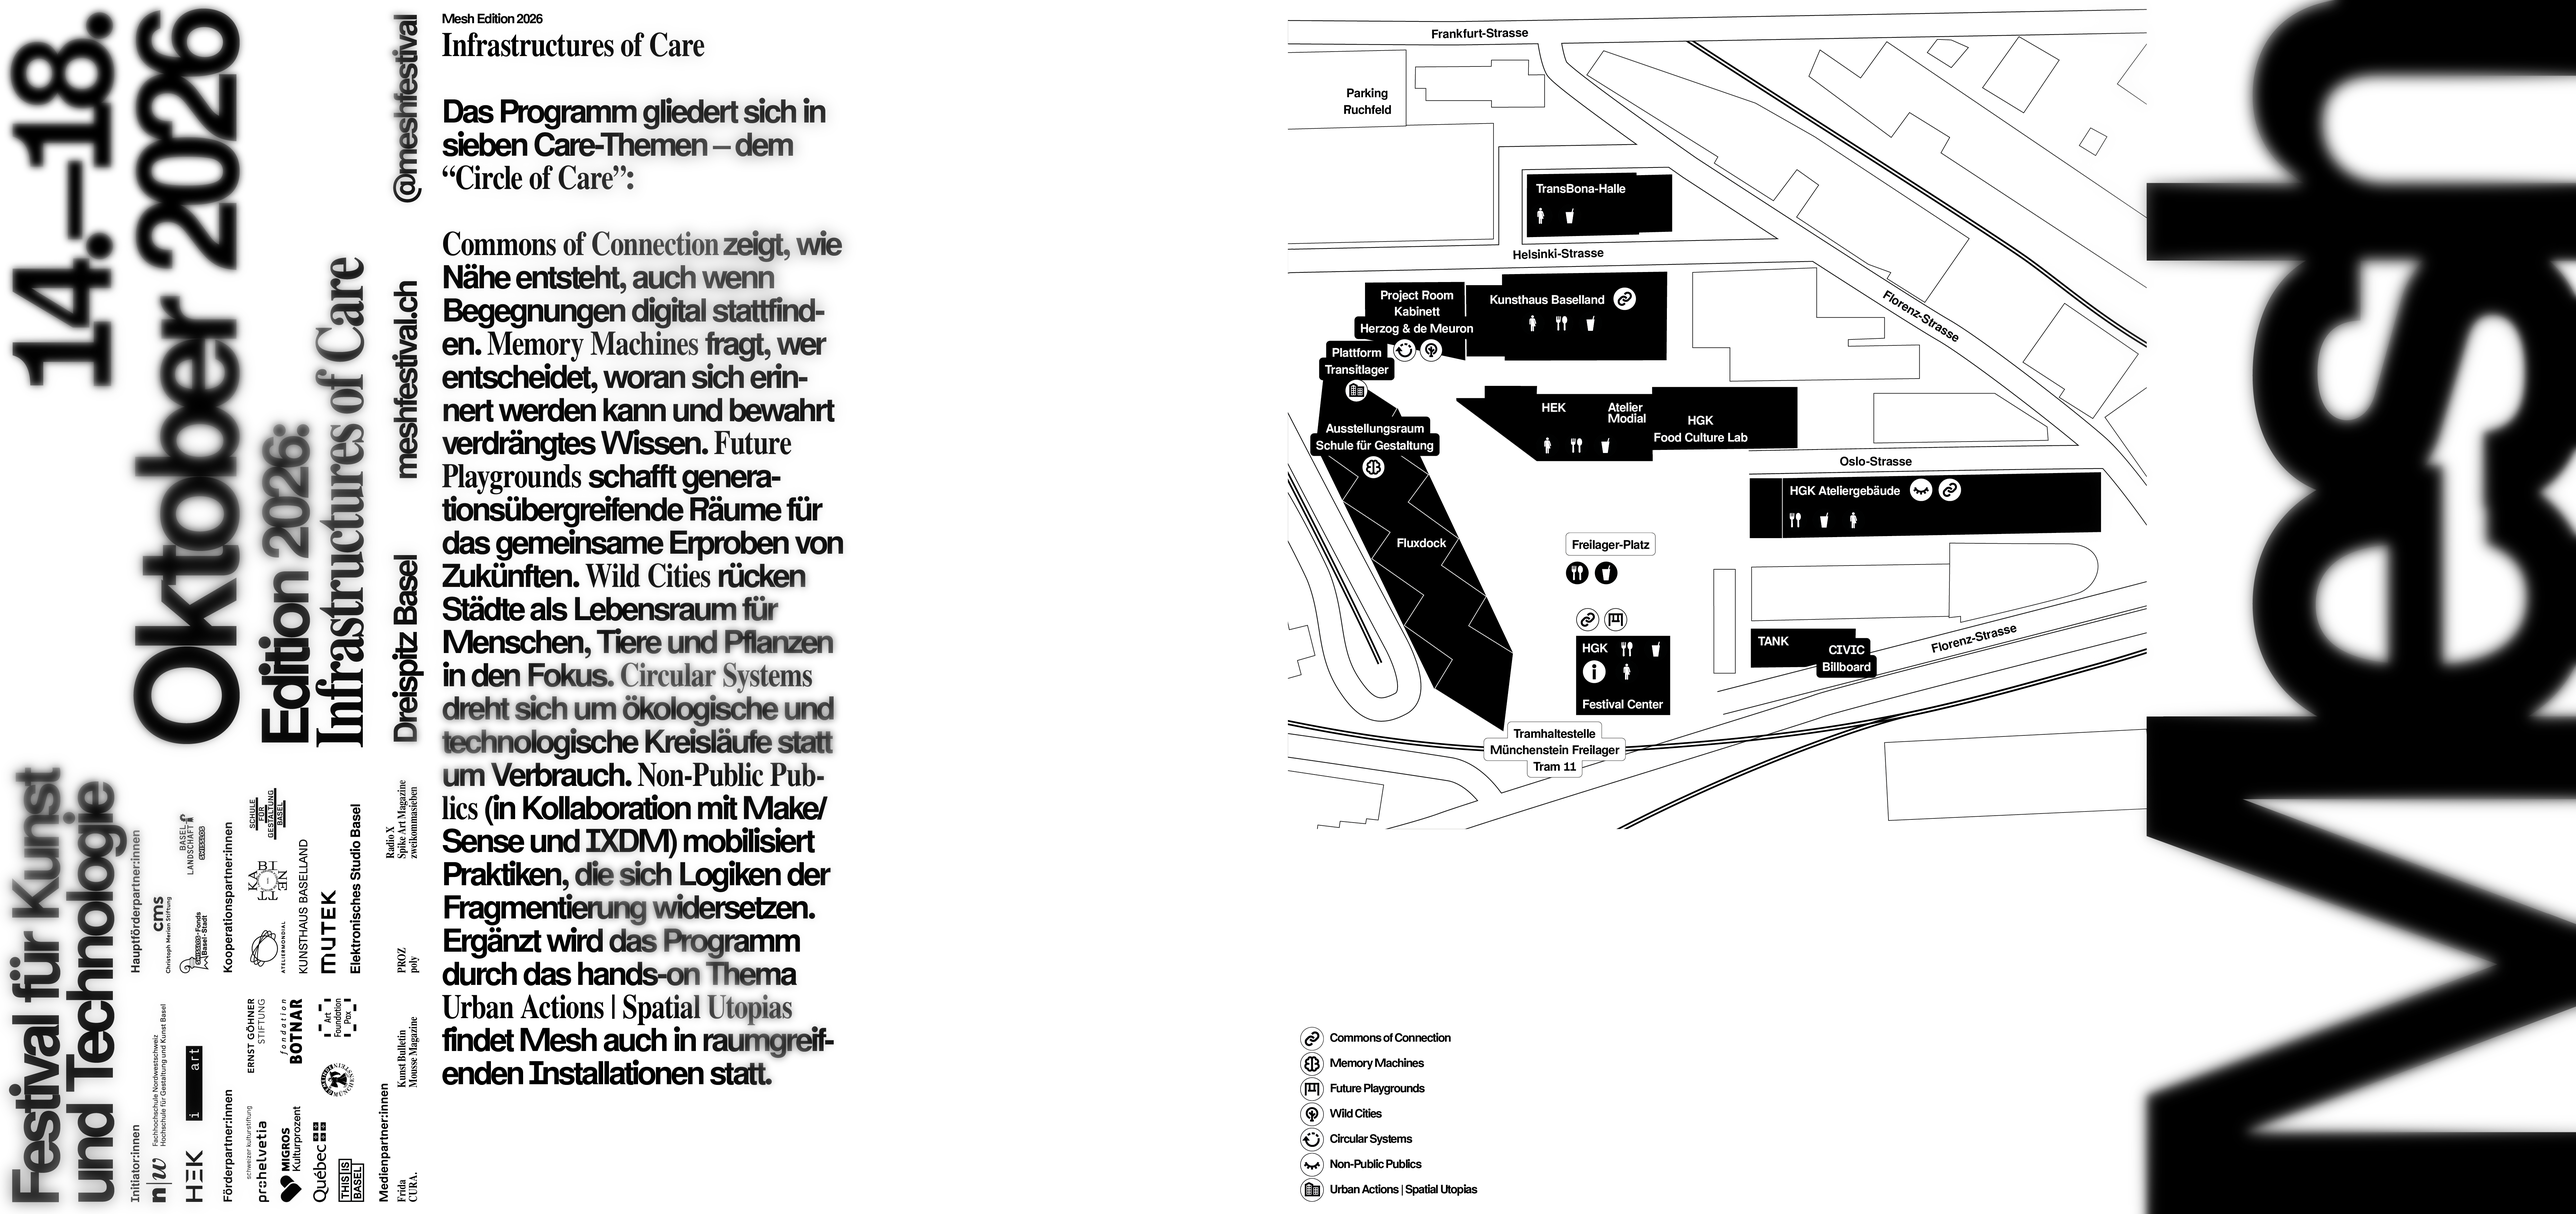
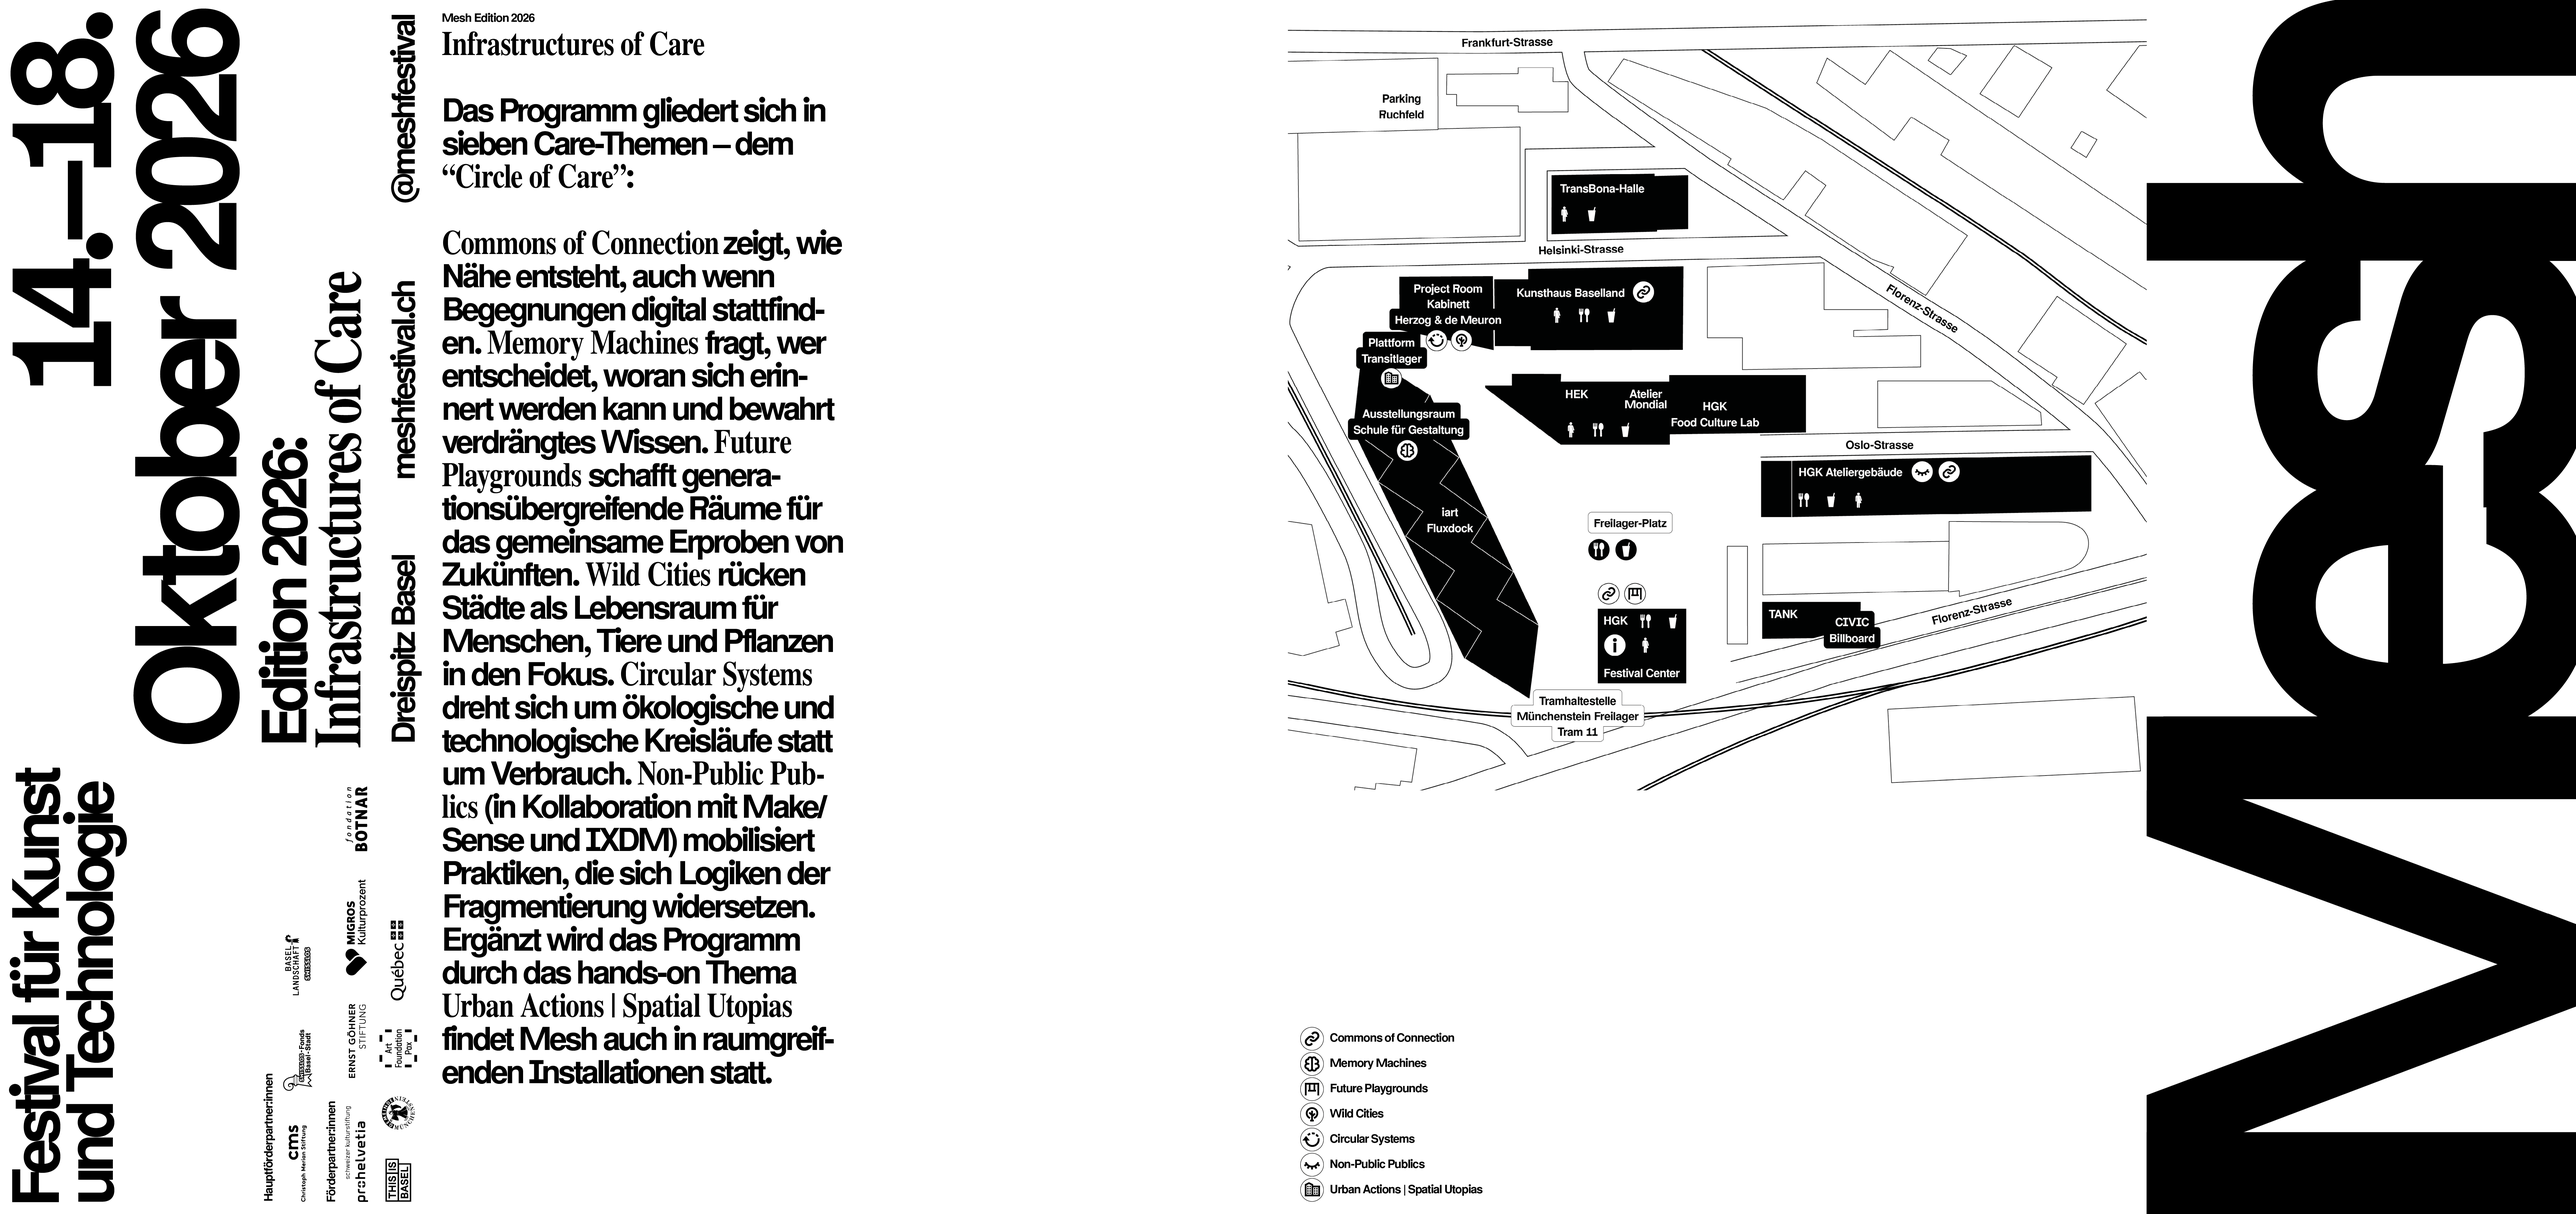
Update Leporello

diff --git a/app.js b/app.js
@@ -1104,7 +1104,14 @@ function keepNamesTogether(str) {
   if (!str) return str;
   return str
     .split(/(\s*[,&]\s*)/)
-    .map((part, i) => (i % 2 === 1 ? part : part.replace(/ /g, " ")))
+    .map((part, i) => {
+      if (i % 2 === 1) return part;
+      // a first+last name longer than 30 characters together is left with
+      // normal breakable spaces, so it can wrap instead of forcing the
+      // whole cell to overflow.
+      if (part.trim().length > 30) return part;
+      return part.replace(/ /g, " ");
+    })
     .join("");
 }
 function leporelloFormatTime(hourStart, minStart, hourEnd, minEnd) {
@@ -1123,8 +1130,9 @@ function leporelloFormatTime(hourStart, minStart, hourEnd, minEnd) {
 // gets a section, just labelled with its raw slug (see buildSections below) -
 // this way a format never silently drops off the leporello if the CMS
 // introduces a new one or spells an existing one differently (e.g. "workshop"
-// vs "workshops").
-const LEPORELLO_FORMAT_LABEL = {
+// vs "workshops"). Wording mirrors the DE/EN dictionaries used for
+// event.formatTranslation in the /events/:eventSlug route.
+const LEPORELLO_FORMAT_LABEL_DE = {
   performances: "Performances",
   screenings: "Screenings",
   konferenz: "Konferenz",
@@ -1134,8 +1142,21 @@ const LEPORELLO_FORMAT_LABEL = {
   diskurs: "Talks & Panels",
   clubnights: "Club Nights",
   opening: "Opening",
-  welcoming: "Welcoming",
+  welcoming: "Welcome",
   guided_tour: "Rundgang",
+};
+const LEPORELLO_FORMAT_LABEL_EN = {
+  performances: "Performances",
+  screenings: "Screenings",
+  konferenz: "Conference",
+  workshop: "Workshop",
+  workshops: "Workshops",
+  satellite: "Satellite",
+  diskurs: "Talks & Panels",
+  clubnights: "Club Nights",
+  opening: "Opening",
+  welcoming: "Welcome",
+  guided_tour: "Guided Tour",
 };
 
 // fixed section order requested for the leporello (not chronological); any
@@ -1200,6 +1221,9 @@ app.get("/leporello/:language?", async function (req, res) {
         };
       });
 
+    const leporelloFormatLabel =
+      langIdx === 1 ? LEPORELLO_FORMAT_LABEL_EN : LEPORELLO_FORMAT_LABEL_DE;
+
     const buildSections = (dayCode) => {
       const byFormat = {};
       leporelloEvents
@@ -1212,7 +1236,7 @@ app.get("/leporello/:language?", async function (req, res) {
           const items = byFormat[fmt].sort((a, b) => a.sortKey - b.sortKey);
           const rank = LEPORELLO_FORMAT_ORDER.indexOf(fmt);
           return {
-            label: LEPORELLO_FORMAT_LABEL[fmt] || fmt,
+            label: leporelloFormatLabel[fmt] || fmt,
             items,
             rank: rank === -1 ? LEPORELLO_FORMAT_ORDER.length : rank,
             firstStart: items[0].sortKey,
@@ -1287,12 +1311,14 @@ app.get("/leporello/:language?", async function (req, res) {
     // out of room instead of pinning one day per panel, so e.g. Thursday
     // continues directly under Wednesday and spills into the next column
     // mid-day if it has to. See layoutFlow() in leporello.pug.
+    const leporelloEmptyLabel = langIdx === 1 ? "No entries" : "Kein Eintrag";
+
     const flowRows = [];
     LEPORELLO_DAYS.forEach((day) => {
       const block = buildDayBlock(day);
       flowRows.push({ type: "day", label: block.label });
       if (!block.sections.length) {
-        flowRows.push({ type: "empty" });
+        flowRows.push({ type: "empty", label: leporelloEmptyLabel });
       } else {
         block.sections.forEach((section) => {
           flowRows.push({ type: "section", label: section.label });
@@ -1312,12 +1338,30 @@ app.get("/leporello/:language?", async function (req, res) {
     // sheet is 630mm wide - 6 panels of 105mm each. The front sheet is pure
     // day flow, all 6 panels. The back sheet's panels 1-2 and 4-6 are pure
     // artwork (title/sponsors resp. site map + wordmark) baked into
-    // MESH-LEPORELLO-RS.png, which is rendered full-bleed as the sheet's
-    // own background - those panels get no block/flow content of their
-    // own, just null (blank pug branch), so the artwork shows through.
+    // MESH-LEPORELLO-RS(-EN).png, which is rendered full-bleed as the
+    // sheet's own background - those panels get no block/flow content of
+    // their own, just null (blank pug branch), so the artwork shows
+    // through. Both the front (VS) and back (RS) artwork have an EN
+    // variant for the language-dependent text baked into them.
     // Exhibitions get their own dedicated panel (back, panel 3) - they run
     // the whole festival rather than on one day, so they don't belong in
     // the day flow.
+    const vsImage =
+      langIdx === 1 ? "MESH-LEPORELLO-VS-EN.png" : "MESH-LEPORELLO-VS.png";
+    const rsImage =
+      langIdx === 1 ? "MESH-LEPORELLO-RS-EN.png" : "MESH-LEPORELLO-RS.png";
+
+    const leporelloLabels = {
+      pageTitle:
+        langIdx === 1 ? "Mesh – Programme Leporello" : "Mesh – Programm Leporello",
+      toolbarInfo:
+        langIdx === 1
+          ? "Leporello · 630×297mm landscape · zigzag fold · 6 panels per sheet"
+          : "Leporello · 630×297mm quer · Zickzackfalz · 6 Panels je Seite",
+      print: langIdx === 1 ? "Print" : "Drucken",
+      emptyEntry: leporelloEmptyLabel,
+    };
+
     const sheets = [
       [
         { isFlow: true, flowIndex: 0 },
@@ -1340,6 +1384,9 @@ app.get("/leporello/:language?", async function (req, res) {
     res.render("leporello", {
       sheets,
       flowRows,
+      vsImage,
+      rsImage,
+      labels: leporelloLabels,
       language: [language, langIdx],
     });
   } catch (err) {
